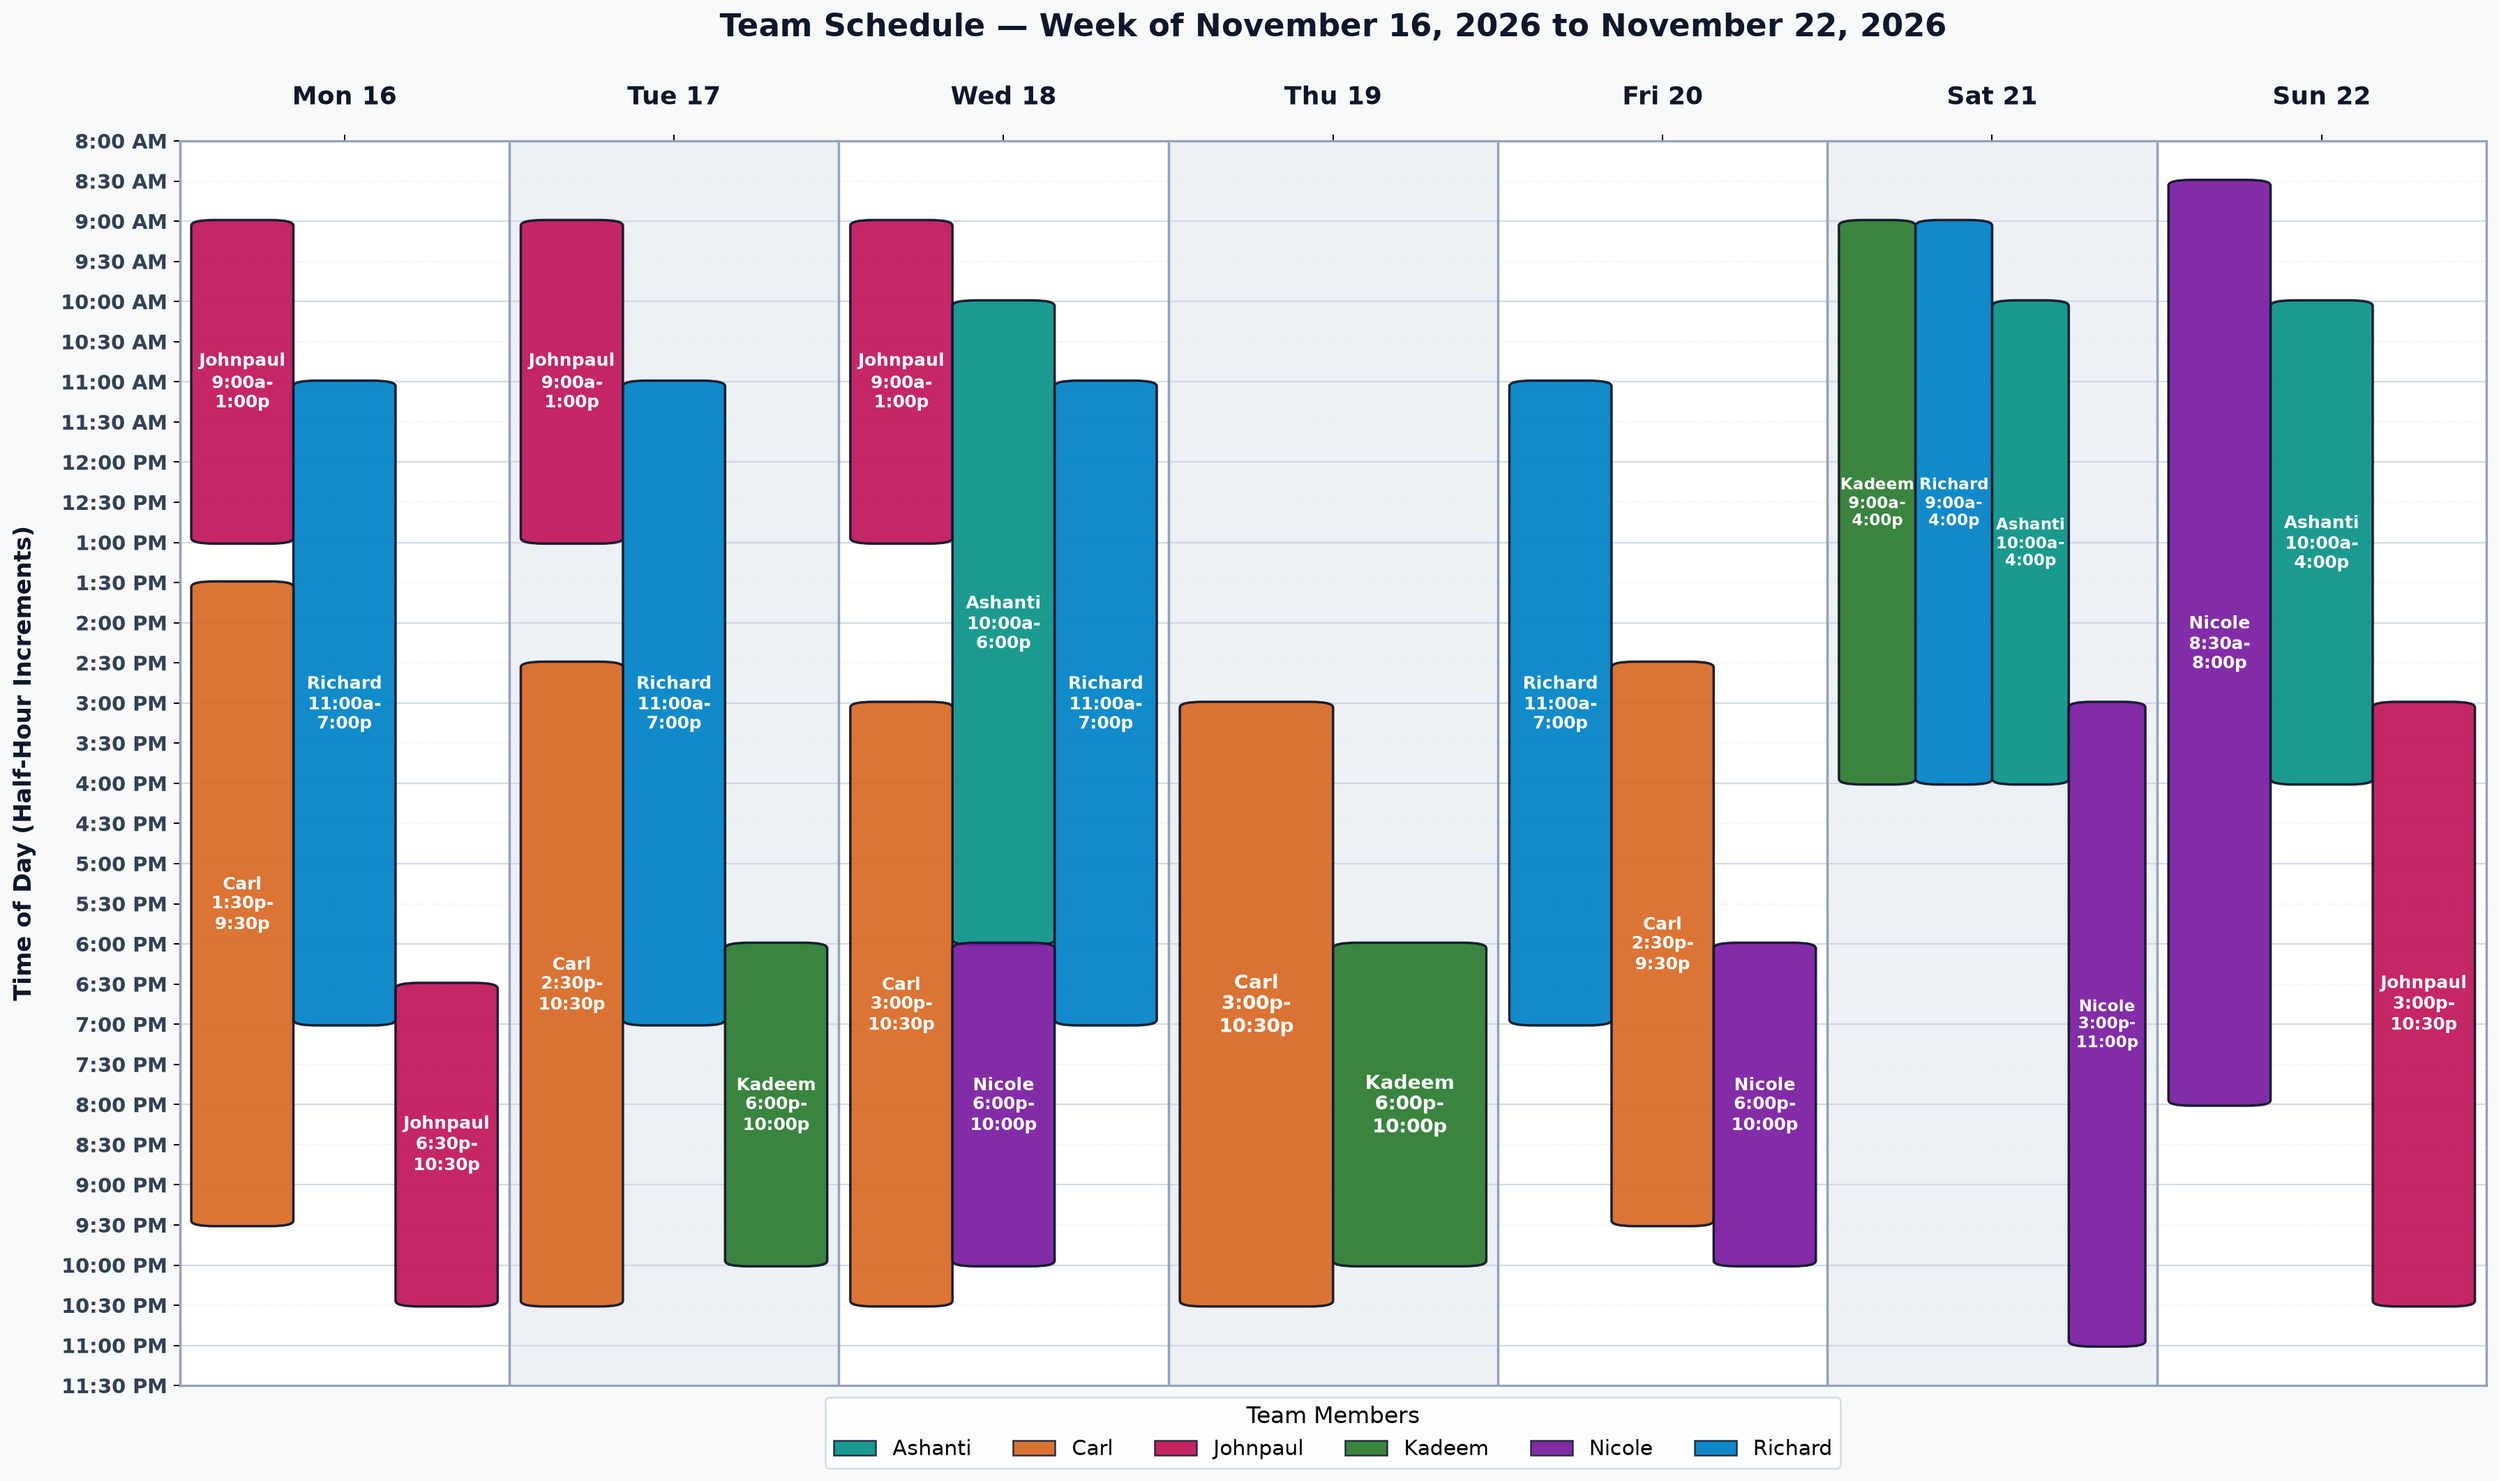
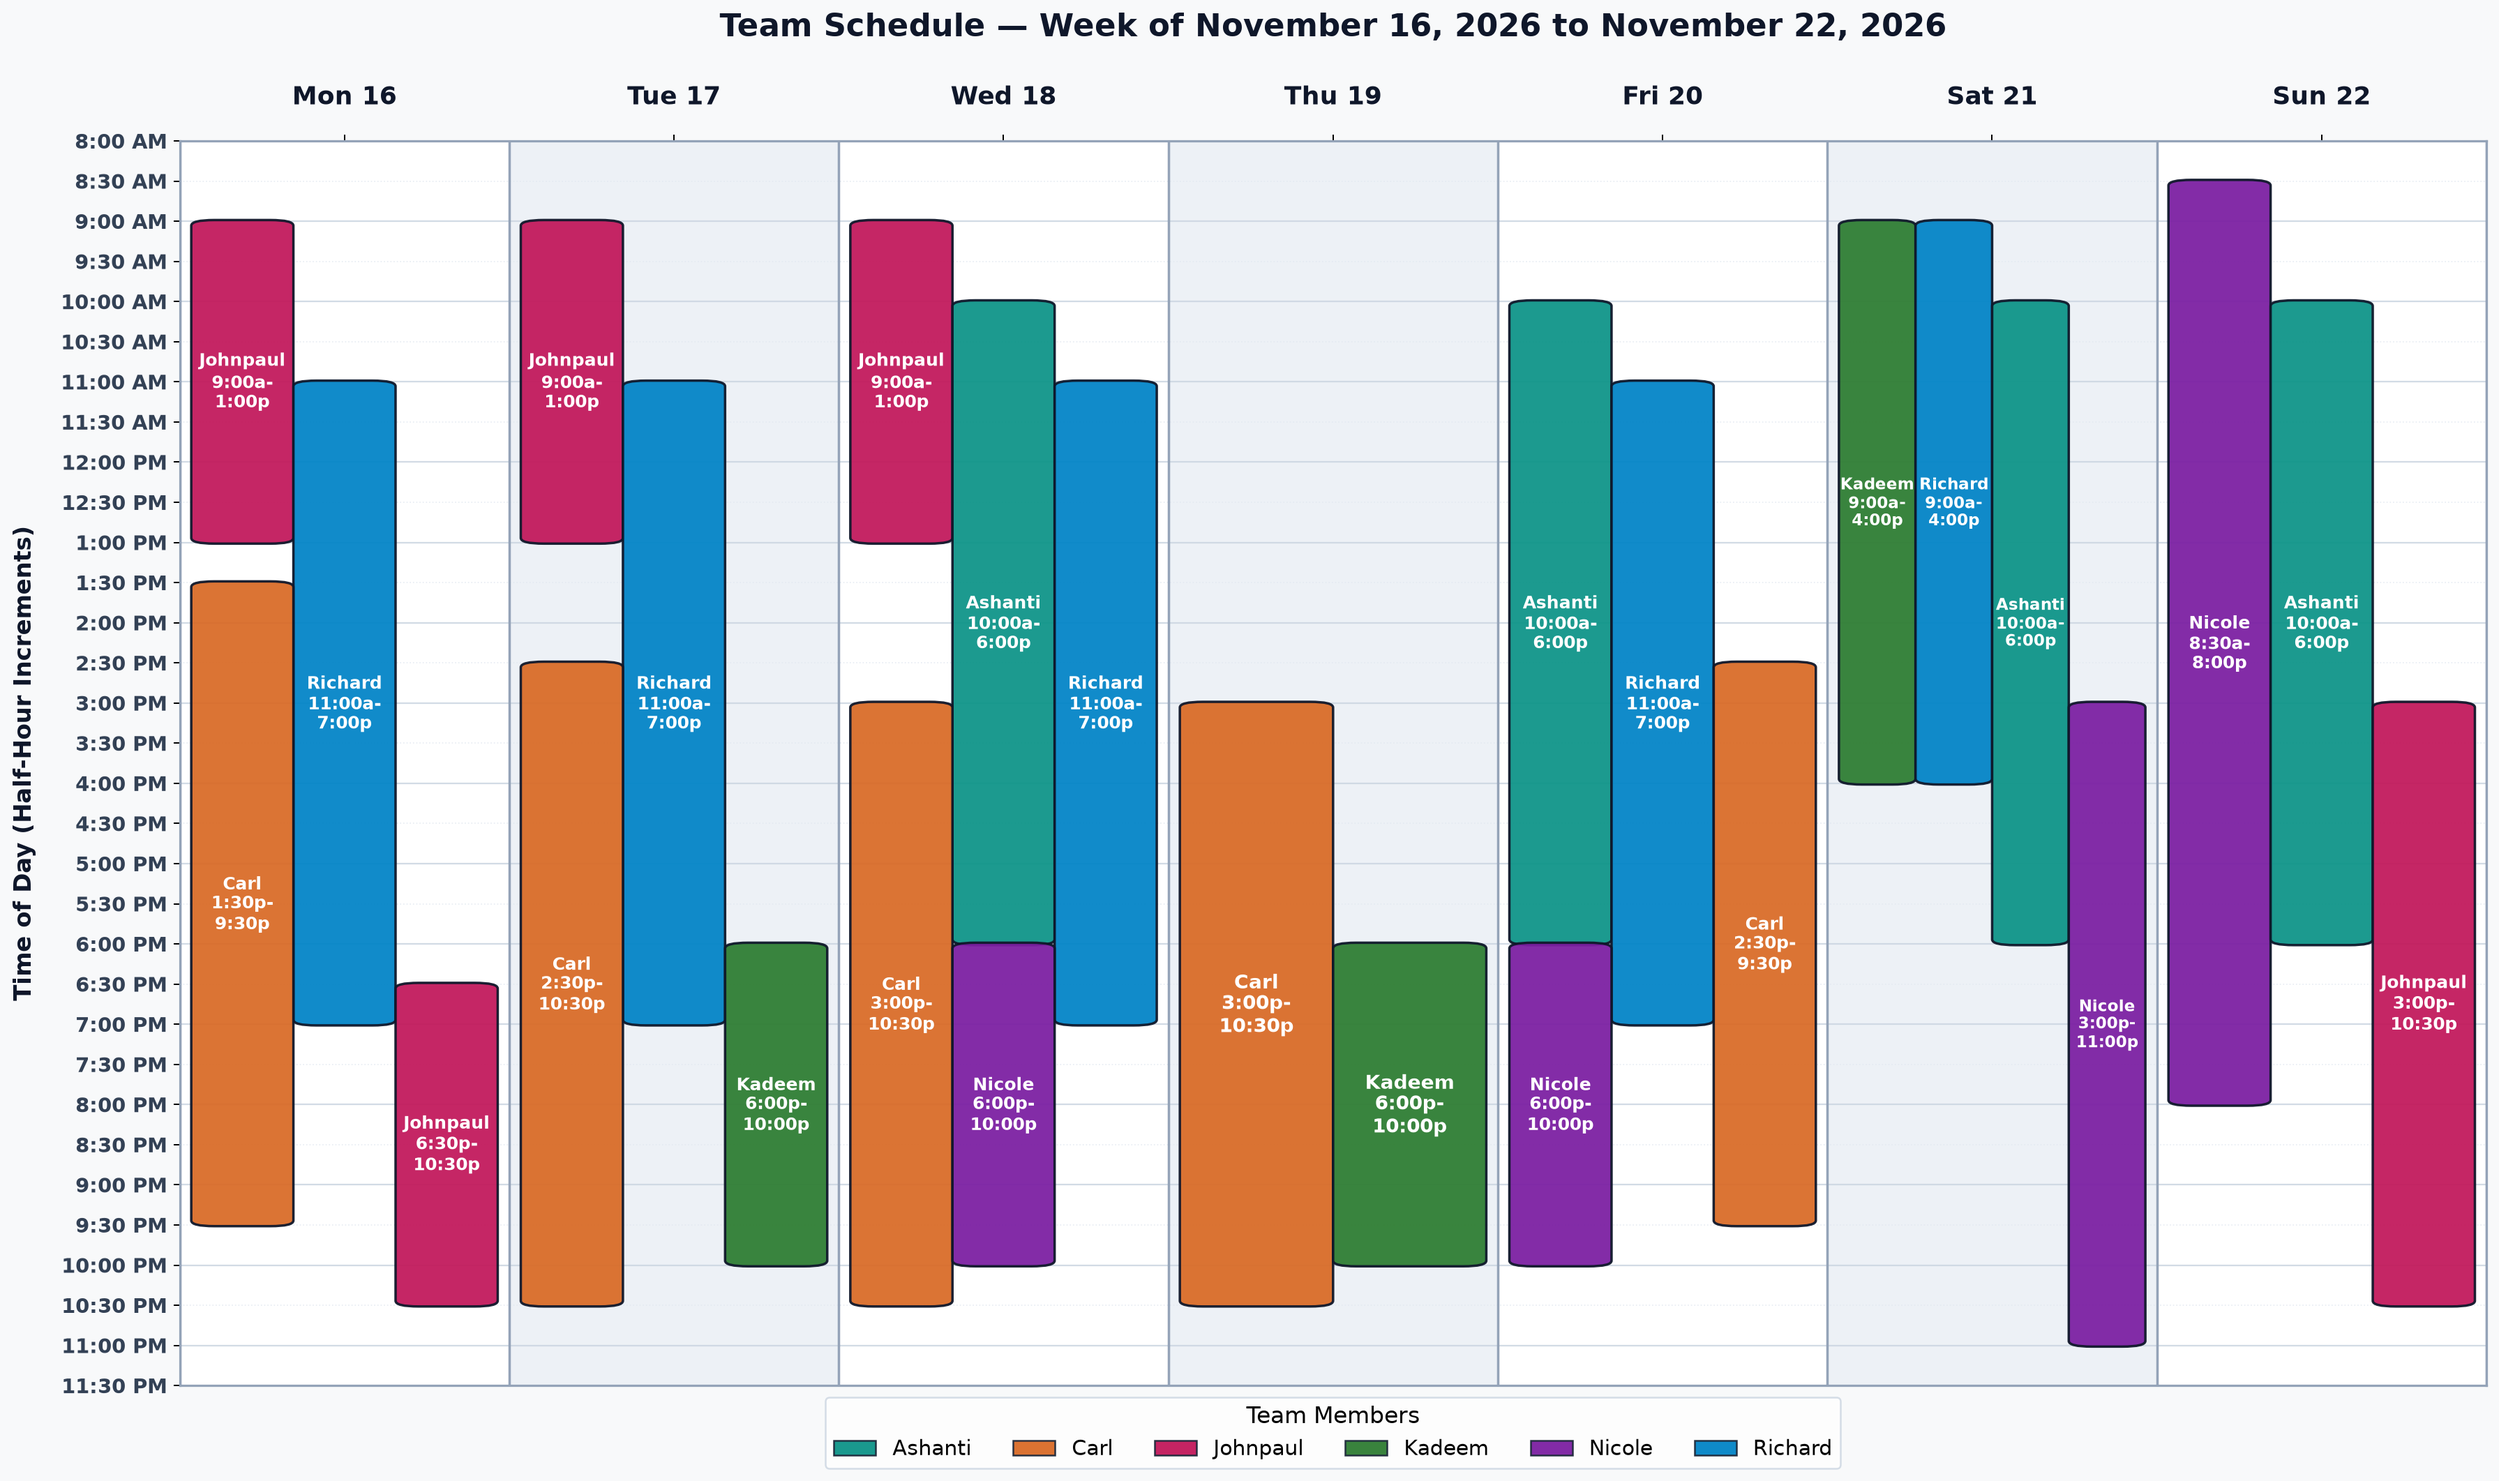
Update schedule for week of Nov 16, 2026 (Ashanti Friday shift & weekend extensions)

diff --git a/schedule.html b/schedule.html
@@ -1494,8 +1494,8 @@
         "Chris": "#059669",
         "Ashanti": "#0D9488"
       },
-      "total_hours": 163.0,
-      "total_shifts": 25,
+      "total_hours": 175.0,
+      "total_shifts": 26,
       "stats": {
         "Carl": {
           "hours": 38.0,
@@ -1503,8 +1503,8 @@
           "color": "#D96B27"
         },
         "Ashanti": {
-          "hours": 20.0,
-          "shifts": 3,
+          "hours": 32.0,
+          "shifts": 4,
           "color": "#0D9488"
         },
         "Richard": {
@@ -1573,17 +1573,24 @@
         },
         {
           "name": "Ashanti",
+          "day": 4,
+          "start": 10.0,
+          "end": 18.0,
+          "label": "10:00 AM - 6:00 PM"
+        },
+        {
+          "name": "Ashanti",
           "day": 5,
           "start": 10.0,
-          "end": 16.0,
-          "label": "10:00 AM - 4:00 PM"
+          "end": 18.0,
+          "label": "10:00 AM - 6:00 PM"
         },
         {
           "name": "Ashanti",
           "day": 6,
           "start": 10.0,
-          "end": 16.0,
-          "label": "10:00 AM - 4:00 PM"
+          "end": 18.0,
+          "label": "10:00 AM - 6:00 PM"
         },
         {
           "name": "Richard",
